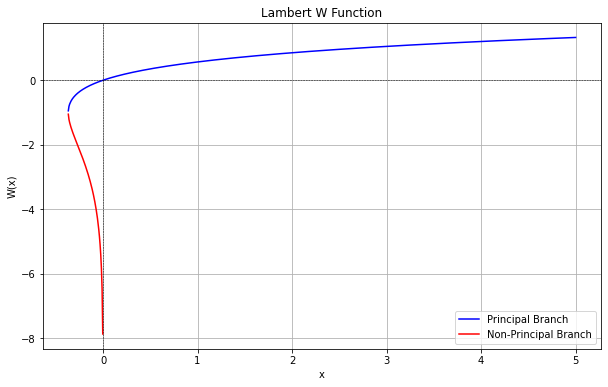
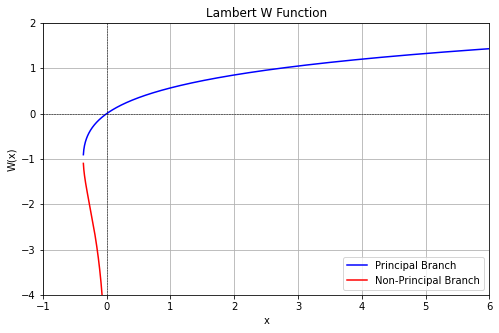
update plot

diff --git a/README.md b/README.md
@@ -9,30 +9,36 @@
 
 ```python
 import torchlambertw as tw
-tw.special.lambertw(torch.tensor(0.))
+import numpy as np
+special.lambertw(torch.tensor([0., 1., -np.exp(-1)]))
+```
+output:
+```bash
+tensor([ 0.0000,  0.5671, -1.0000], dtype=torch.float64)
 ```
 
-Here to replicate the figure on the [Lambert W Function](https://en.wikipedia.org/wiki/Lambert_W_function) Wikipedia page:
+As a more interesting example you can use this implementation to replicate the figure on the [Lambert W Function](https://en.wikipedia.org/wiki/Lambert_W_function) Wikipedia page:
 
 ```python
-
 import numpy as np
 import matplotlib.pyplot as plt
 from torchlambertw import special
 
-def plot_lambertW(range_start, range_end, num_points=1000):
+def plot_lambertW(range_start, range_end, num_points=2000):
     x_values = np.linspace(range_start, range_end, num_points)
     x_values_torch = torch.tensor(x_values)
     principal_branch_values = special.lambertw(x_values_torch, k=0).numpy()
     non_principal_branch_values = special.lambertw(x_values_torch, k=-1).numpy()
     
-    plt.figure(figsize=(10, 6))
+    plt.figure(figsize=(8, 5))
     plt.plot(x_values, principal_branch_values, label="Principal Branch", color='blue')
     plt.plot(x_values, non_principal_branch_values, label="Non-Principal Branch", color='red')
     
     plt.title("Lambert W Function")
     plt.xlabel("x")
     plt.ylabel("W(x)")
+    plt.xlim(range_start, range_end)
+    plt.ylim(-4, 2)  # same range as wiki figure
     plt.axhline(0, color='black', linestyle='--', linewidth=0.5)
     plt.axvline(0, color='black', linestyle='--', linewidth=0.5)
     plt.legend()
@@ -41,7 +47,8 @@ def plot_lambertW(range_start, range_end, num_points=1000):
     plt.show()
 
 # Example usage:
-plot_lambertW(-2, 5)
+plot_lambertW(-1, 6)
+
 ```
 ![Lambert W Function](imgs/lambertw_plot.png)
 
